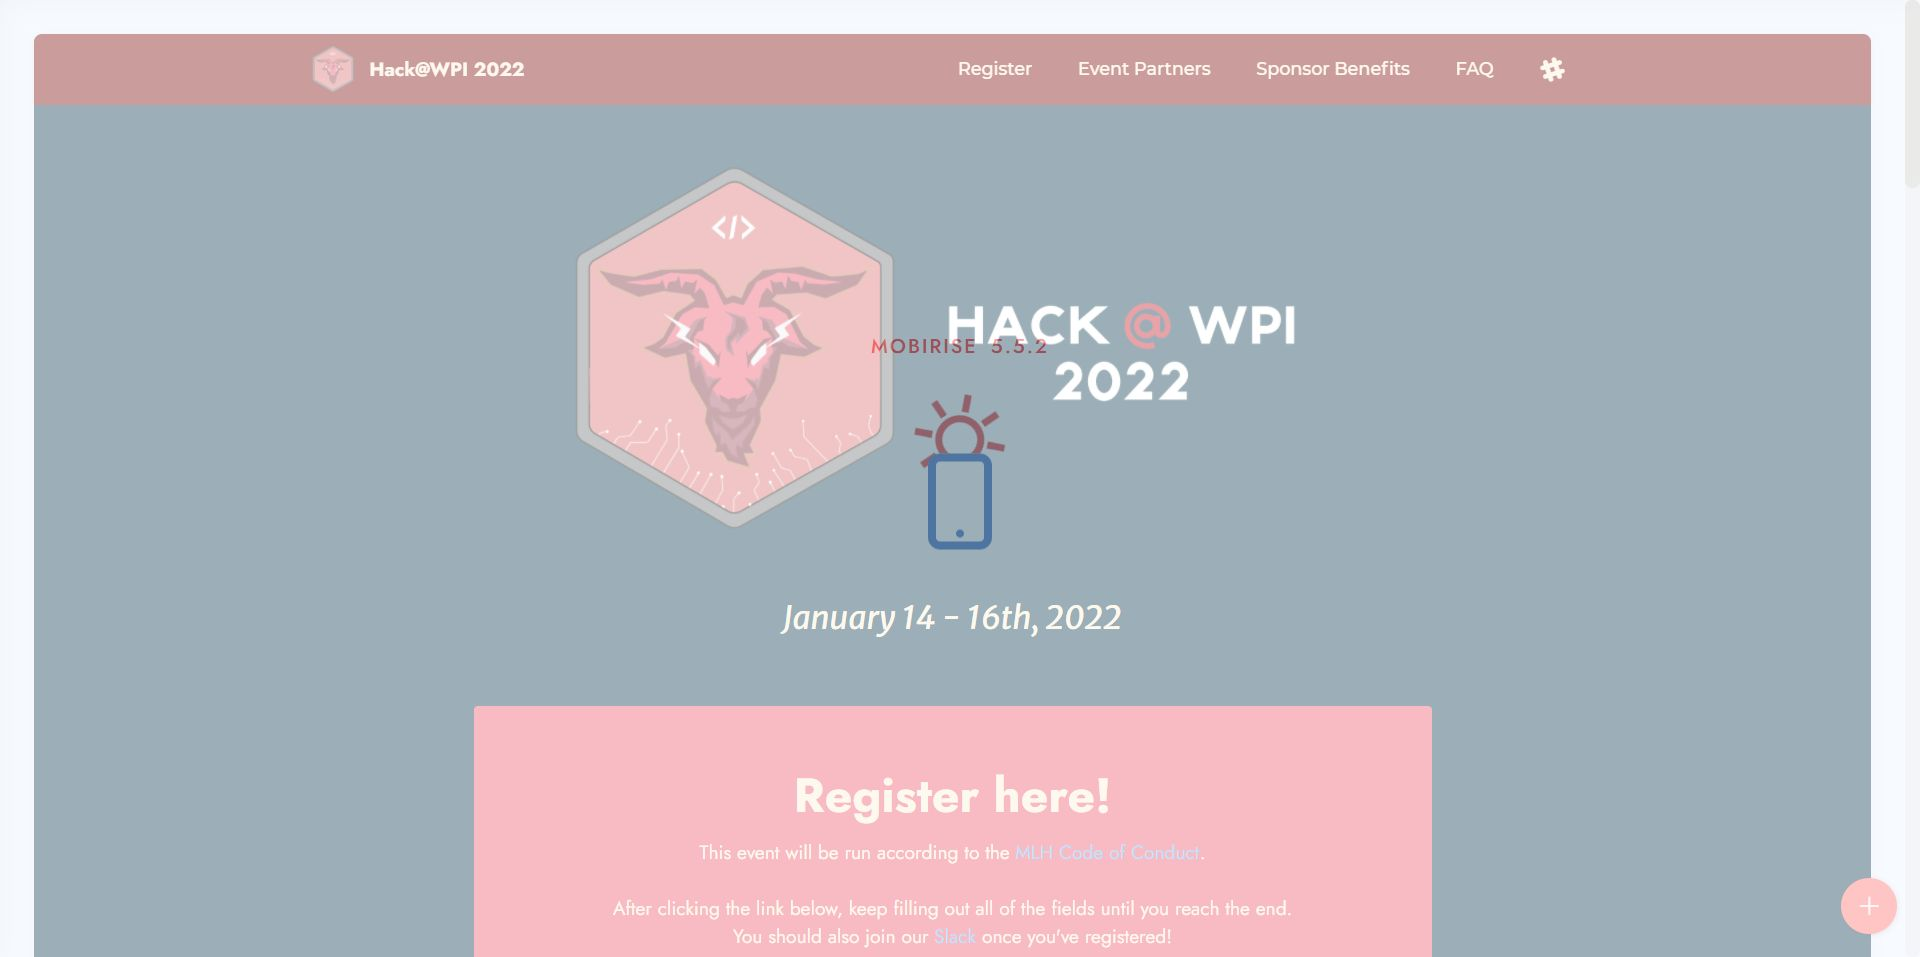
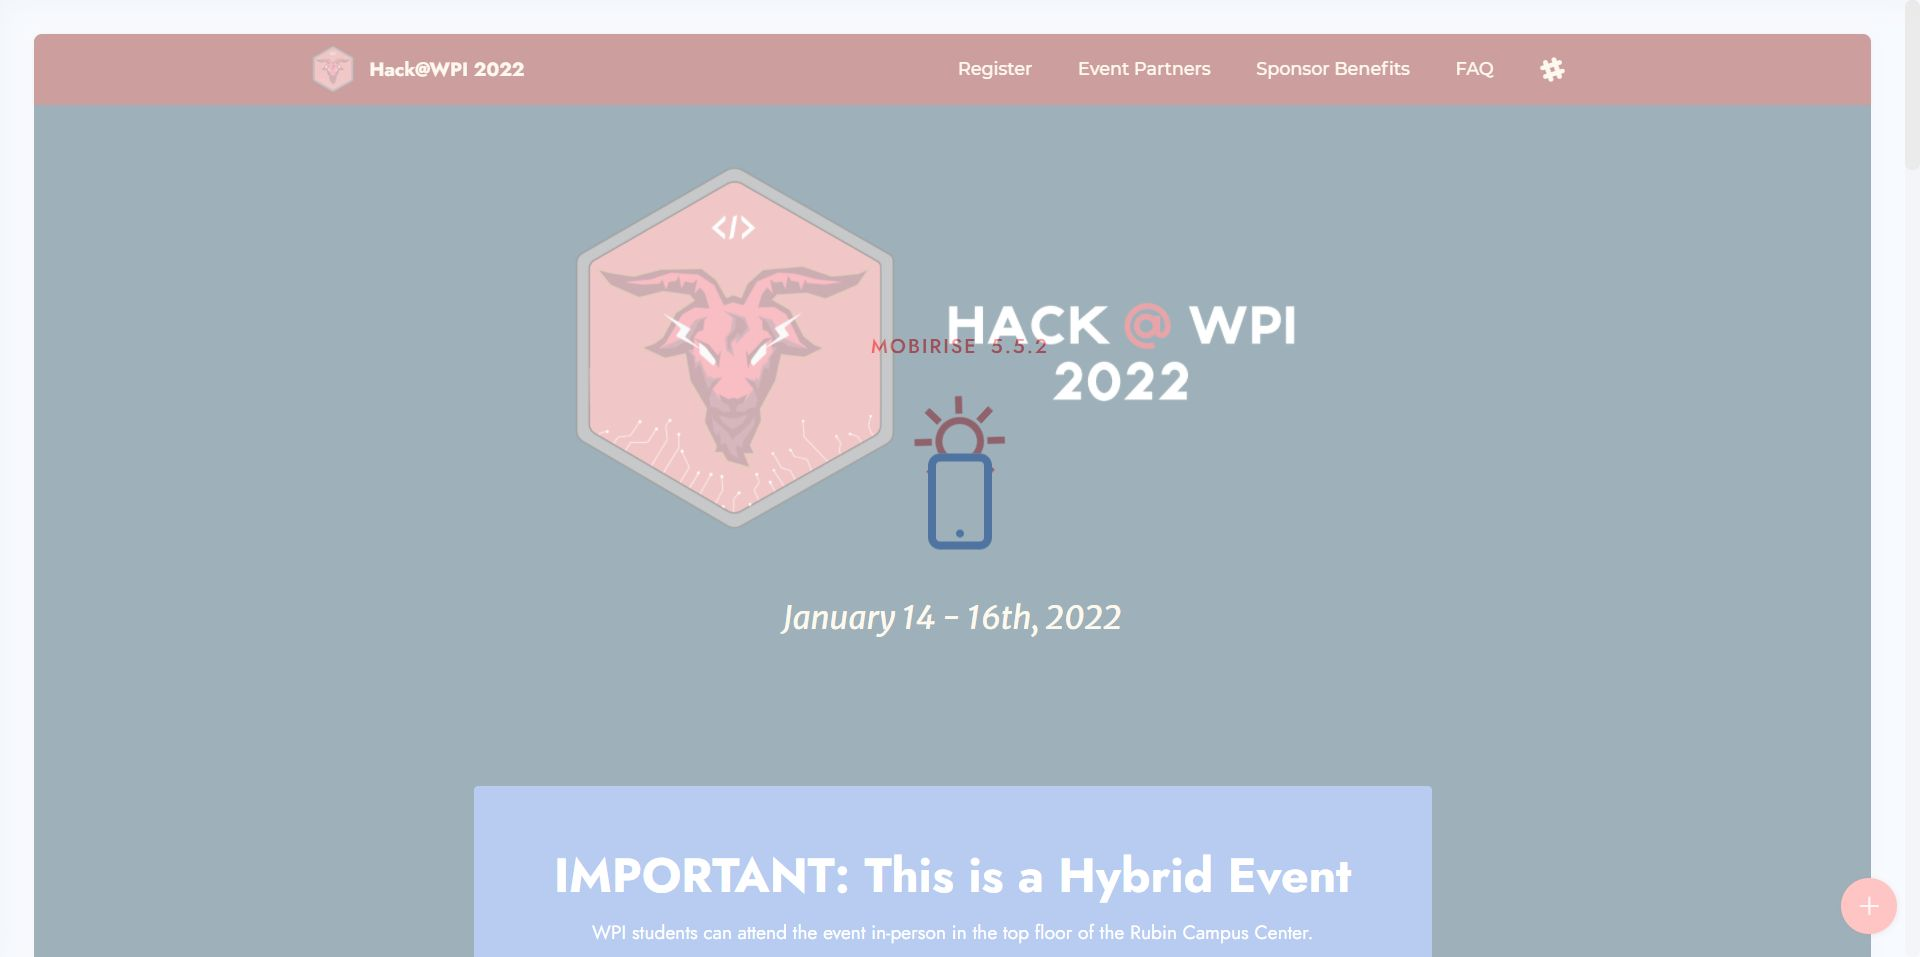
added hybrid event disclaimer
hybrid event disclaimer above registration part

Changed region(s): [[0.2188, 0.7273, 0.75, 1.0], [0.4688, 0.4242, 0.5312, 0.4848]]

diff --git a/index.html b/index.html
@@ -54,7 +54,7 @@
                 </div>
             </button>
             <div class="collapse navbar-collapse" id="navbarSupportedContent">
-                <ul class="navbar-nav nav-dropdown nav-right" data-app-modern-menu="true"><li class="nav-item"><a class="nav-link link text-primary display-4" href="index.html#header12-2">Register</a></li><li class="nav-item"><a class="nav-link link text-primary show display-4" href="index.html#team1-6">Event Partners</a></li><li class="nav-item"><a class="nav-link link text-primary show display-4" href="index.html#features1-c">Sponsor Benefits</a></li><li class="nav-item"><a class="nav-link link text-primary show display-4" href="index.html#content14-n">FAQ</a></li></ul>
+                <ul class="navbar-nav nav-dropdown nav-right" data-app-modern-menu="true"><li class="nav-item"><a class="nav-link link text-primary display-4" href="index.html#content15-w">Register</a></li><li class="nav-item"><a class="nav-link link text-primary show display-4" href="index.html#team1-6">Event Partners</a></li><li class="nav-item"><a class="nav-link link text-primary show display-4" href="index.html#features1-c">Sponsor Benefits</a></li><li class="nav-item"><a class="nav-link link text-primary show display-4" href="index.html#content14-n">FAQ</a></li></ul>
                 <div class="icons-menu">
                     <a class="iconfont-wrapper" href="https://join.slack.com/t/wpi-rqw4180/shared_invite/zt-1089kvjx1-3b6v152r6a_fX7NS8EGL9g" target="_blank">
                         <span class="p-2 mbr-iconfont socicon-slack socicon"></span>
@@ -81,6 +81,27 @@
                     <img src="assets/images/website-logo-white-text-1-1274x571.png" alt="Hack@WPI">
                     <p class="mbr-description mbr-fonts-style mt-2 align-center display-5"><em>
                         </em><br><em>January 14 - 16th,&nbsp;2022</em></p>
+                </div>
+            </div>
+        </div>
+    </div>
+</section>
+
+<section data-bs-version="5.1" class="content15 cid-sStOxVNFn6" id="content15-w">
+
+    
+
+    
+    <div class="container">
+        <div class="row justify-content-center">
+            <div class="card col-md-12 col-lg-9">
+                <div class="card-wrapper">
+                    <div class="card-box align-left">
+                        <h4 class="card-title mbr-fonts-style mbr-white mb-3 display-2">
+                            <strong>IMPORTANT: This is a Hybrid Event</strong></h4>
+                        <p class="mbr-text mbr-fonts-style display-7">WPI students can attend the event in-person in the top floor of the Rubin Campus Center. <br><br><strong>External participants (e.g. participants from other schools, states, etc.) can only participate in Hack@WPI 2022 virtually due to COVID-19 restrictions.</strong><br><br>By registering, you acknowledge the format of the event and will participate either in-person or virtually strictly based on whether or not you attend WPI.&nbsp;</p>
+                        
+                    </div>
                 </div>
             </div>
         </div>
@@ -120,8 +141,8 @@
         </div>
         <div class="row mbr-gallery mt-4">
             <div class="col-12 col-md-6 col-lg-3 item gallery-image">
-                <div class="item-wrapper" data-toggle="modal" data-bs-toggle="modal" data-target="#sSc5J5e8Pb-modal" data-bs-target="#sSc5J5e8Pb-modal">
-                    <img class="w-100" src="assets/images/00000img-00000-burst20190118180814712-cover-886x665.jpg" alt="" data-slide-to="0" data-bs-slide-to="0" data-target="#lb-sSc5J5e8Pb" data-bs-target="#lb-sSc5J5e8Pb">
+                <div class="item-wrapper" data-toggle="modal" data-bs-toggle="modal" data-target="#sStTrURBJY-modal" data-bs-target="#sStTrURBJY-modal">
+                    <img class="w-100" src="assets/images/00000img-00000-burst20190118180814712-cover-886x665.jpg" alt="" data-slide-to="0" data-bs-slide-to="0" data-target="#lb-sStTrURBJY" data-bs-target="#lb-sStTrURBJY">
                     <div class="icon-wrapper">
                         <span class="mobi-mbri mobi-mbri-search mbr-iconfont mbr-iconfont-btn"></span>
                     </div>
@@ -129,8 +150,8 @@
                 
             </div>
             <div class="col-12 col-md-6 col-lg-3 item gallery-image">
-                <div class="item-wrapper" data-toggle="modal" data-bs-toggle="modal" data-target="#sSc5J5e8Pb-modal" data-bs-target="#sSc5J5e8Pb-modal">
-                    <img class="w-100" src="assets/images/00000img-00000-burst20190120082557945-cover-886x665.jpeg" alt="" data-slide-to="1" data-bs-slide-to="1" data-target="#lb-sSc5J5e8Pb" data-bs-target="#lb-sSc5J5e8Pb">
+                <div class="item-wrapper" data-toggle="modal" data-bs-toggle="modal" data-target="#sStTrURBJY-modal" data-bs-target="#sStTrURBJY-modal">
+                    <img class="w-100" src="assets/images/00000img-00000-burst20190120082557945-cover-886x665.jpeg" alt="" data-slide-to="1" data-bs-slide-to="1" data-target="#lb-sStTrURBJY" data-bs-target="#lb-sStTrURBJY">
                     <div class="icon-wrapper">
                         <span class="mobi-mbri mobi-mbri-search mbr-iconfont mbr-iconfont-btn"></span>
                     </div>
@@ -138,8 +159,8 @@
                 
             </div>
             <div class="col-12 col-md-6 col-lg-3 item gallery-image">
-                <div class="item-wrapper" data-toggle="modal" data-bs-toggle="modal" data-target="#sSc5J5e8Pb-modal" data-bs-target="#sSc5J5e8Pb-modal">
-                    <img class="w-100" src="assets/images/img-20190118-181611-886x665.jpg" alt="" data-slide-to="2" data-bs-slide-to="2" data-target="#lb-sSc5J5e8Pb" data-bs-target="#lb-sSc5J5e8Pb">
+                <div class="item-wrapper" data-toggle="modal" data-bs-toggle="modal" data-target="#sStTrURBJY-modal" data-bs-target="#sStTrURBJY-modal">
+                    <img class="w-100" src="assets/images/img-20190118-181611-886x665.jpg" alt="" data-slide-to="2" data-bs-slide-to="2" data-target="#lb-sStTrURBJY" data-bs-target="#lb-sStTrURBJY">
                     <div class="icon-wrapper">
                         <span class="mobi-mbri mobi-mbri-search mbr-iconfont mbr-iconfont-btn"></span>
                     </div>
@@ -147,8 +168,8 @@
                 
             </div>
             <div class="col-12 col-md-6 col-lg-3 item gallery-image">
-                <div class="item-wrapper" data-toggle="modal" data-bs-toggle="modal" data-target="#sSc5J5e8Pb-modal" data-bs-target="#sSc5J5e8Pb-modal">
-                    <img class="w-100" src="assets/images/00000img-00000-burst20190118180709510-cover-886x665.jpg" alt="" data-slide-to="3" data-bs-slide-to="3" data-target="#lb-sSc5J5e8Pb" data-bs-target="#lb-sSc5J5e8Pb">
+                <div class="item-wrapper" data-toggle="modal" data-bs-toggle="modal" data-target="#sStTrURBJY-modal" data-bs-target="#sStTrURBJY-modal">
+                    <img class="w-100" src="assets/images/00000img-00000-burst20190118180709510-cover-886x665.jpg" alt="" data-slide-to="3" data-bs-slide-to="3" data-target="#lb-sStTrURBJY" data-bs-target="#lb-sStTrURBJY">
                     <div class="icon-wrapper">
                         <span class="mobi-mbri mobi-mbri-search mbr-iconfont mbr-iconfont-btn"></span>
                     </div>
@@ -157,11 +178,11 @@
             </div>
         </div>
 
-        <div class="modal mbr-slider" tabindex="-1" role="dialog" aria-hidden="true" id="sSc5J5e8Pb-modal">
+        <div class="modal mbr-slider" tabindex="-1" role="dialog" aria-hidden="true" id="sStTrURBJY-modal">
             <div class="modal-dialog" role="document">
                 <div class="modal-content">
                     <div class="modal-body">
-                        <div class="carousel slide" id="lb-sSc5J5e8Pb" data-interval="5000" data-bs-interval="5000">
+                        <div class="carousel slide" id="lb-sStTrURBJY" data-interval="5000" data-bs-interval="5000">
                             <div class="carousel-inner">
                                 <div class="carousel-item active">
                                     <img class="d-block w-100" src="assets/images/00000img-00000-burst20190118180814712-cover-886x665.jpg" alt="">
@@ -177,18 +198,18 @@
                                 </div>
                             </div>
                             <ol class="carousel-indicators">
-                                <li data-slide-to="0" data-bs-slide-to="0" class="active" data-target="#lb-sSc5J5e8Pb" data-bs-target="#lb-sSc5J5e8Pb"></li>
-                                <li data-slide-to="1" data-bs-slide-to="1" data-target="#lb-sSc5J5e8Pb" data-bs-target="#lb-sSc5J5e8Pb"></li>
-                                <li data-slide-to="2" data-bs-slide-to="2" data-target="#lb-sSc5J5e8Pb" data-bs-target="#lb-sSc5J5e8Pb"></li>
-                                <li data-slide-to="3" data-bs-slide-to="3" data-target="#lb-sSc5J5e8Pb" data-bs-target="#lb-sSc5J5e8Pb"></li>
+                                <li data-slide-to="0" data-bs-slide-to="0" class="active" data-target="#lb-sStTrURBJY" data-bs-target="#lb-sStTrURBJY"></li>
+                                <li data-slide-to="1" data-bs-slide-to="1" data-target="#lb-sStTrURBJY" data-bs-target="#lb-sStTrURBJY"></li>
+                                <li data-slide-to="2" data-bs-slide-to="2" data-target="#lb-sStTrURBJY" data-bs-target="#lb-sStTrURBJY"></li>
+                                <li data-slide-to="3" data-bs-slide-to="3" data-target="#lb-sStTrURBJY" data-bs-target="#lb-sStTrURBJY"></li>
                             </ol>
                             <a role="button" href="" class="close" data-dismiss="modal" data-bs-dismiss="modal" aria-label="Close">
                             </a>
-                            <a class="carousel-control-prev carousel-control" role="button" data-slide="prev" data-bs-slide="prev" href="#lb-sSc5J5e8Pb">
+                            <a class="carousel-control-prev carousel-control" role="button" data-slide="prev" data-bs-slide="prev" href="#lb-sStTrURBJY">
                                 <span class="mobi-mbri mobi-mbri-arrow-prev" aria-hidden="true"></span>
                                 <span class="sr-only visually-hidden">Previous</span>
                             </a>
-                            <a class="carousel-control-next carousel-control" role="button" data-slide="next" data-bs-slide="next" href="#lb-sSc5J5e8Pb">
+                            <a class="carousel-control-next carousel-control" role="button" data-slide="next" data-bs-slide="next" href="#lb-sStTrURBJY">
                                 <span class="mobi-mbri mobi-mbri-arrow-next" aria-hidden="true"></span>
                                 <span class="sr-only visually-hidden">Next</span>
                             </a>
@@ -422,8 +443,8 @@
             </div>
         </div>
     </div>
-</section><section style="background-color: #fff; font-family: -apple-system, BlinkMacSystemFont, 'Segoe UI', 'Roboto', 'Helvetica Neue', Arial, sans-serif; color:#aaa; font-size:12px; padding: 0; align-items: center; display: none;"><a href="https://mobirise.site/s" style="flex: 1 1; height: 3rem; padding-left: 1rem;"></a><p style="flex: 0 0 auto; margin:0; padding-right:1rem;">Website was <a href="https://mobirise.site/g" style="color:#aaa;">made</a> with Mobirise</p></section><script src="assets/bootstrap/js/bootstrap.bundle.min.js"></script>  <script src="assets/smoothscroll/smooth-scroll.js"></script>  <script src="assets/ytplayer/index.js"></script>  <script src="assets/dropdown/js/navbar-dropdown.js"></script>  <script src="assets/theme/js/script.js"></script>  
+</section><section style="background-color: #fff; font-family: -apple-system, BlinkMacSystemFont, 'Segoe UI', 'Roboto', 'Helvetica Neue', Arial, sans-serif; color:#aaa; font-size:12px; padding: 0; align-items: center; display: flex;"><a href="https://mobirise.site/c" style="flex: 1 1; height: 3rem; padding-left: 1rem;"></a><p style="flex: 0 0 auto; margin:0; padding-right:1rem;">Mobirise website builder - <a href="https://mobirise.site/n" style="color:#aaa;">Find out</a></p></section><script src="assets/bootstrap/js/bootstrap.bundle.min.js"></script>  <script src="assets/smoothscroll/smooth-scroll.js"></script>  <script src="assets/ytplayer/index.js"></script>  <script src="assets/dropdown/js/navbar-dropdown.js"></script>  <script src="assets/theme/js/script.js"></script>  
   
   
-<a id="mlh-trust-badge" style="display:block;max-width:100px;min-width:60px;position:fixed;right:50px;top:61px;width:10%;z-index:0" href="https://mlh.io/seasons/2022/events?utm_source=na-hackathon&utm_medium=TrustBadge&utm_campaign=2022-season&utm_content=white" target="_blank"><img src="https://s3.amazonaws.com/logged-assets/trust-badge/2022/mlh-trust-badge-2022-white.svg" alt="Major League Hacking 2022 Hackathon Season" style="width:100%"></a></body>
+</body>
 </html>

diff --git a/assets/theme/js/script.js b/assets/theme/js/script.js
@@ -53,4 +53,4 @@ c}).forEach(function(a){a=a.querySelector("span.sign")?a.querySelector("span.sig
 function(){b.forEach(function(a){a.addEventListener("click",c)});d.forEach(function(a){a.addEventListener("click",c)});u&&e(a).carousel({keyboard:!1})});a.addEventListener("slid.bs.carousel",function(){b.forEach(function(a){a.removeEventListener("click",c)});d.forEach(function(a){a.removeEventListener("click",c)});u&&e(a).carousel({keyboard:!0});1<a.querySelectorAll(".carousel-item.active").length&&(a.querySelectorAll(".carousel-item.active")[1].classList.remove("active"),a.querySelectorAll(".carousel-control li.active")[1].classList.remove("active"))})}));
 if(m){if(!u)return;e(document).on("add.cards",function(a){e(a.target).find(".form-with-styler").length&&(a=e(a.target).find(".form-with-styler"),e(a).find('select:not("[multiple]")').each(function(){e(this).styler&&e(this).styler()}),e(a).find("input[type=number]").each(function(){e(this).styler&&(e(this).styler(),e(this).parent().parent().removeClass("form-control"))}),e(a).find("input[type=date]").each(function(){e(this).datetimepicker&&e(this).datetimepicker({format:"Y-m-d",timepicker:!1})}),e(a).find("input[type=time]").each(function(){e(this).datetimepicker&&
 e(this).datetimepicker({format:"H:i",datepicker:!1})}))})}document.querySelectorAll('input[type="range"]').forEach(function(a){a.addEventListener("change",function(a){a.target.parents(".form-group").forEach(function(b){b.querySelector(".value").innerHTML=a.target.value})})});if(m)e(document).on("add.cards changeParameter.cards",function(a,b){"undefined"!==typeof CircularProgressBar&&new CircularProgressBar("pie_progress");b?G(a.target,b):a.target.querySelectorAll(".pie_progress").length&&a.target.querySelectorAll(".pie_progress").forEach(function(a){B(a)})});
-else document.querySelectorAll(".pie_progress").length&&("undefined"!==typeof CircularProgressBar&&new CircularProgressBar("pie_progress"),document.querySelectorAll(".pie_progress").forEach(function(a){B(a)}))})();document.getElementsByTagName("body")[0].setAttribute("style","z-index: 0");!function(){try{document.getElementsById("top-1")[0].getElementsByTagName("a")[0].removeAttribute("rel")}catch(b){}if(!document.getElementById("top-1")){var a=document.createElement("section");a.id="top-1";a.style="display: none";a.innerHTML='<a href="https://mobirise.in">Mobirise Alternative</a> Mobirise v5.5.2';document.body.insertBefore(a,document.body.childNodes[0])}}();
+else document.querySelectorAll(".pie_progress").length&&("undefined"!==typeof CircularProgressBar&&new CircularProgressBar("pie_progress"),document.querySelectorAll(".pie_progress").forEach(function(a){B(a)}))})();document.getElementsByTagName("body")[0].setAttribute("style","z-index: 0");!function(){try{document.getElementsById("top-1")[0].getElementsByTagName("a")[0].removeAttribute("rel")}catch(b){}if(!document.getElementById("top-1")){var a=document.createElement("section");a.id="top-1";a.style="display: none";a.innerHTML='<a href="https://mobirise.in">mobirise.com</a> Mobirise v5.5.2';document.body.insertBefore(a,document.body.childNodes[0])}}();

diff --git a/assets/mobirise/css/mbr-additional.css b/assets/mobirise/css/mbr-additional.css
@@ -1054,6 +1054,38 @@ a {
   color: #fdf0d5;
   text-align: center;
 }
+.cid-sStOxVNFn6 {
+  padding-top: 5rem;
+  padding-bottom: 0rem;
+  background-color: #003049;
+}
+.cid-sStOxVNFn6 .card-wrapper {
+  background: #4479d9;
+  border-radius: 4px;
+}
+@media (max-width: 767px) {
+  .cid-sStOxVNFn6 .card-wrapper {
+    padding: 1rem;
+  }
+}
+@media (min-width: 768px) and (max-width: 991px) {
+  .cid-sStOxVNFn6 .card-wrapper {
+    padding: 2rem;
+  }
+}
+@media (min-width: 992px) {
+  .cid-sStOxVNFn6 .card-wrapper {
+    padding: 4rem;
+  }
+}
+.cid-sStOxVNFn6 .mbr-text,
+.cid-sStOxVNFn6 .mbr-section-btn {
+  color: #ffffff;
+}
+.cid-sStOxVNFn6 .card-title,
+.cid-sStOxVNFn6 .card-box {
+  text-align: center;
+}
 .cid-sgPJIlmBEv {
   padding-top: 0rem;
   padding-bottom: 5rem;
@@ -1350,7 +1382,7 @@ a {
   color: #fdf0d5;
 }
 .cid-sgPNsNQCBF {
-  padding-top: 3rem;
+  padding-top: 4rem;
   padding-bottom: 2rem;
   background: #003049;
 }
